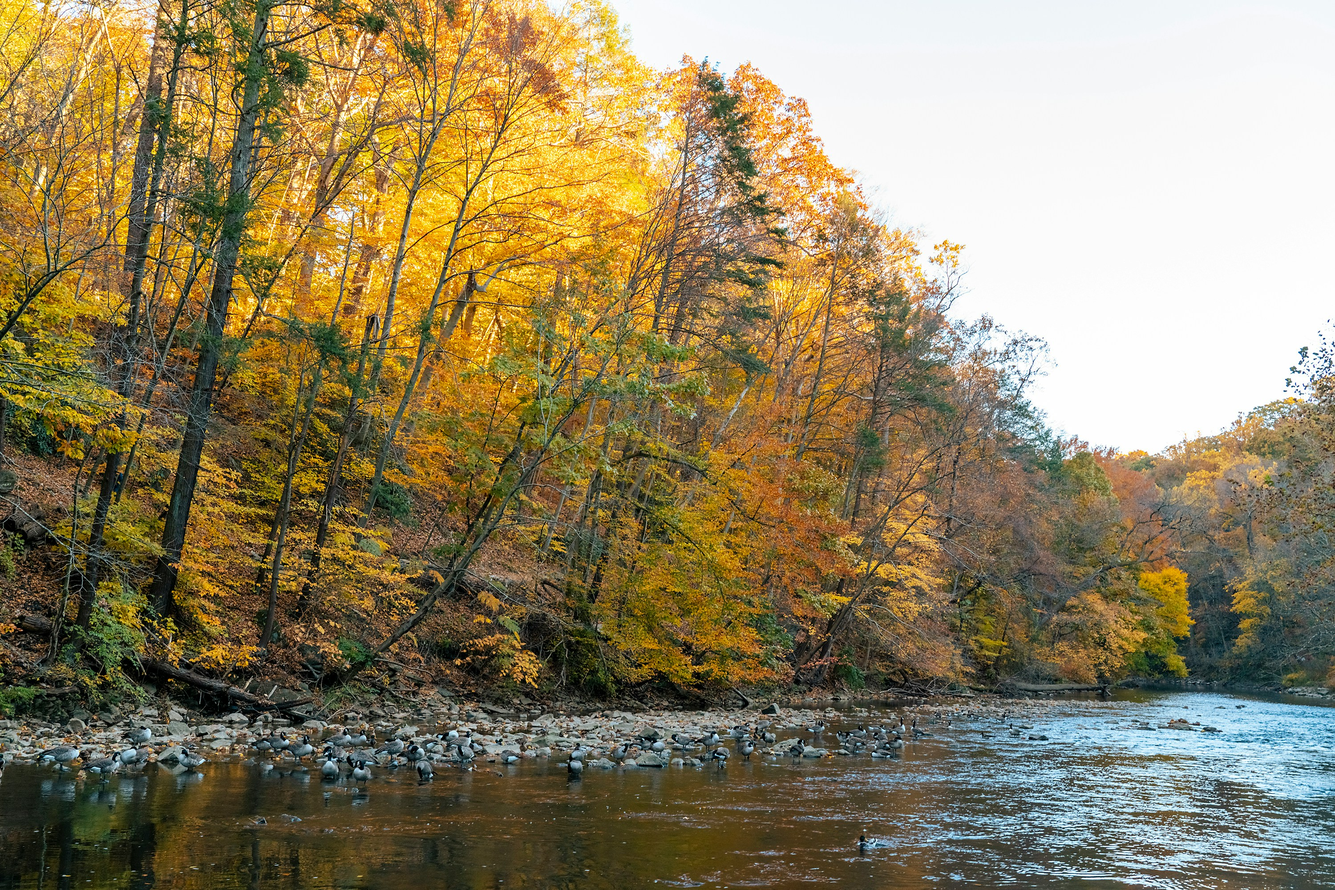
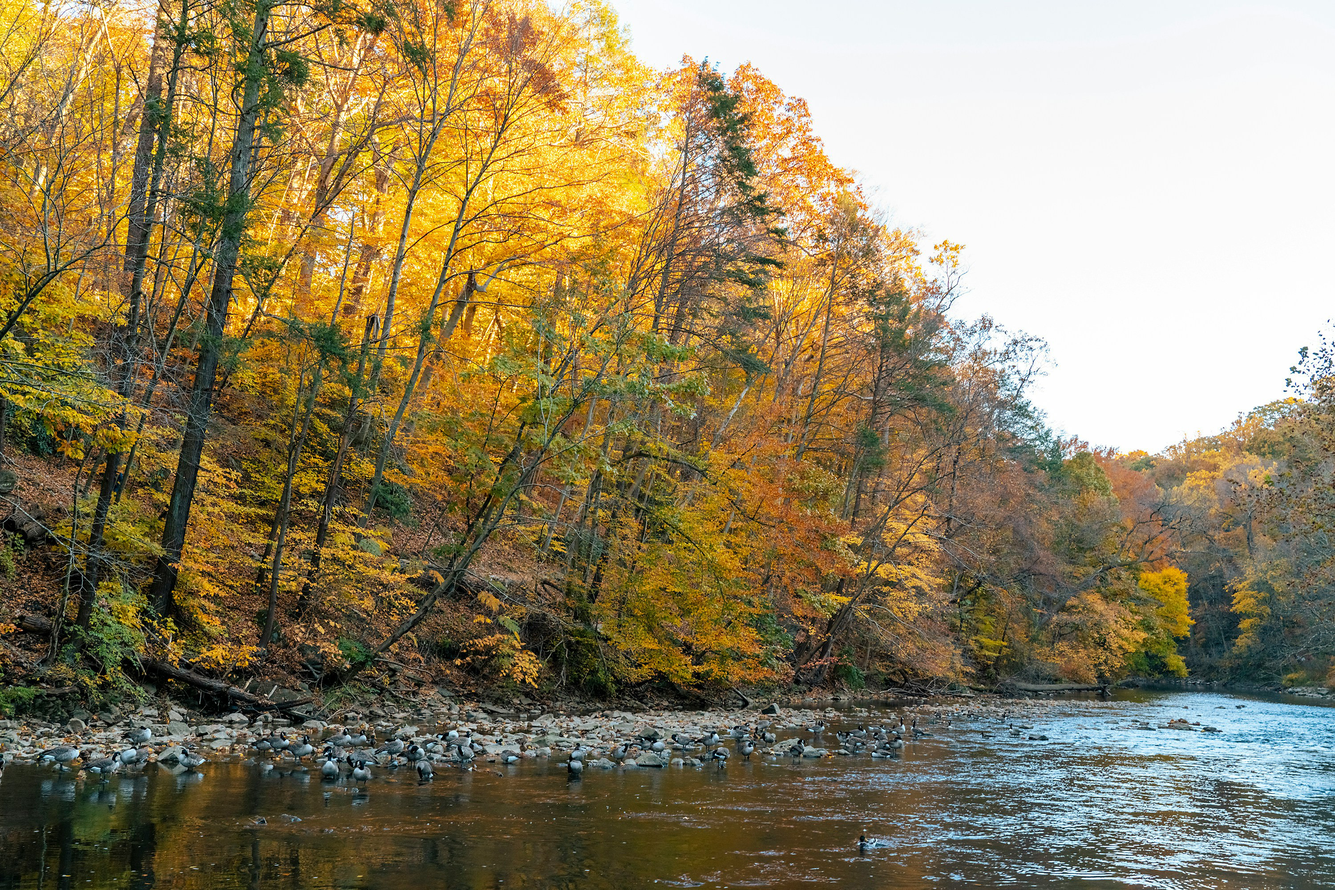
commit

diff --git a/projects/project 1/flex.html b/projects/project 1/flex.html
@@ -31,7 +31,7 @@
       <!-- HERSHEYPARK -->
       <div class="row-columns">     
         <div class="image-container">
-        <img src="images/hersheypark-picture.png" alt="" width="1003px" height="527px">
+        <img src="images/hersheypark-picture.jpg" alt="" width="1003px" height="527px">
       </div>
       <div class="description-hersheypark">
        <div class="attraction-name"><h3>HersheyPark</h3></div>
@@ -44,7 +44,7 @@
       <!-- GETTYSBURG -->
       <div class="row-columns-reversed">     
         <div class="image-container-reversed">
-        <img src="images/cannon.png" alt="" width="1003px" height="527px">
+        <img src="images/cannon.jpg" alt="" width="1003px" height="527px">
       </div>
       <div class="description-gettysburg-reversed">
        <div class="attraction-name"><h3>Gettysburg National Military Park</h3></div>
@@ -57,7 +57,7 @@
       <!-- STATE CAPITOL -->
       <div class="row-columns">     
         <div class="image-container">
-        <img src="images/state-capitol.png" alt="" width="1003px" height="527px">
+        <img src="images/state-capitol.jpg" alt="" width="1003px" height="527px">
       </div>
       <div class="description-state-capitol">
        <div class="attraction-name"><h3>Pennsylvania State Capitol</h3></div>
@@ -70,7 +70,7 @@
       <!-- RAYTOWN LAKE -->
       <div class="row-columns-reversed">     
         <div class="image-container-reversed">
-        <img src="images/raystown-lake.png" alt="" width="1003px" height="527px">
+        <img src="images/raystown-lake.jpg" alt="" width="1003px" height="527px">
       </div>
       <div class="description-raystown-lake-reversed">
        <div class="attraction-name"><h3>Raystown Lake</h3></div>
@@ -84,7 +84,7 @@
       <!-- RAILROAD MUSEUM -->
       <div class="row-columns">     
         <div class="image-container">
-        <img src="images/railroad-museum.png" alt="" width="1003px" height="527px">
+        <img src="images/railroad-museum.jpg" alt="" width="1003px" height="527px">
       </div>
       <div class="description-railroad-museum">
        <div class="attraction-name"><h3>Railroad Museum of Pennsylvania</h3></div>
@@ -97,7 +97,7 @@
              <!-- CENTRAL MARKET YORK -->
       <div class="row-columns-reversed">     
         <div class="image-container-reversed">
-        <img src="images/central-market.png" alt="" width="1003px" height="527px">
+        <img src="images/central-market.jpg" alt="" width="1003px" height="527px">
       </div>
       <div class="description-central-market-reversed">
        <div class="attraction-name"><h3>Central Market York</h3></div>
@@ -110,7 +110,7 @@
       <!-- PINE GROVE FURNACE STATE PARK -->
       <div class="row-columns">     
         <div class="image-container">
-        <img src="images/pine-grove.png" alt="" width="1003px" height="527px">
+        <img src="images/pine-grove.jpg" alt="" width="1003px" height="527px">
       </div>
       <div class="description-pine-grove">
        <div class="attraction-name"><h3>Pine Grove Furnace State Park</h3></div>
@@ -123,7 +123,7 @@
       <!-- WORLDS END STATE PARK -->
       <div class="row-columns-reversed">     
         <div class="image-container-reversed">
-        <img src="images/worlds-end.png" alt="" width="1003px" height="527px">
+        <img src="images/worlds-end.jpg" alt="" width="1003px" height="527px">
       </div>
       <div class="description-worlds-end-reversed">
        <div class="attraction-name"><h3>Worlds End State Park</h3></div>
@@ -136,7 +136,7 @@
       <!-- LEWISBURG -->
       <div class="row-columns">     
         <div class="image-container">
-        <img src="images/lewisburg.png" alt="" width="1003px" height="527px">
+        <img src="images/lewisburg.jpg" alt="" width="1003px" height="527px">
       </div>
       <div class="description-lewisburg">
        <div class="attraction-name"><h3>Lewisburg</h3></div>
@@ -149,7 +149,7 @@
              <!-- THE PENNSYLVANIA GRAND CANYON -->
       <div class="row-columns-reversed">     
         <div class="image-container-reversed">
-        <img src="images/pa-grand-canyon.png" alt="" width="1003px" height="527px">
+        <img src="images/pa-grand-canyon.jpg" alt="" width="1003px" height="527px">
       </div>
       <div class="description-pa-grand-canyon-reversed">
        <div class="attraction-name"><h3>The Pennsylvania Grand Canyon</h3></div>

diff --git a/projects/project 1/style.css b/projects/project 1/style.css
@@ -13,7 +13,7 @@ body {
 #front-cover {
   width: 1440px;
   height: 569px;
-  background-image: url(images/kid-and-girl.png);
+  background-image: url(images/kid-and-girl.jpg);
   background-size: cover;
 }
 #front-cover > div {
